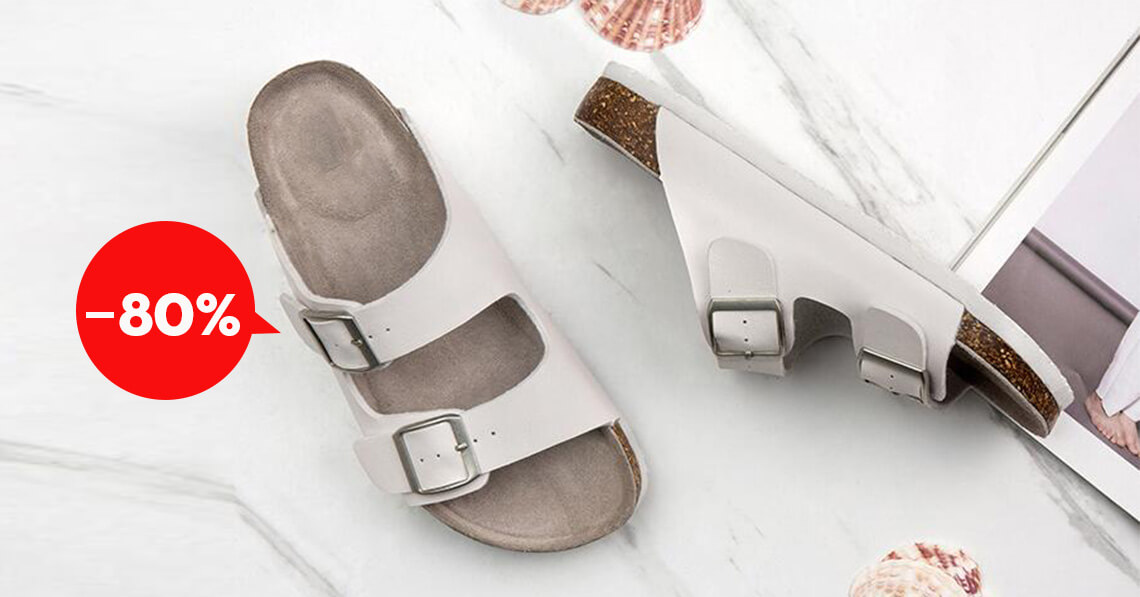
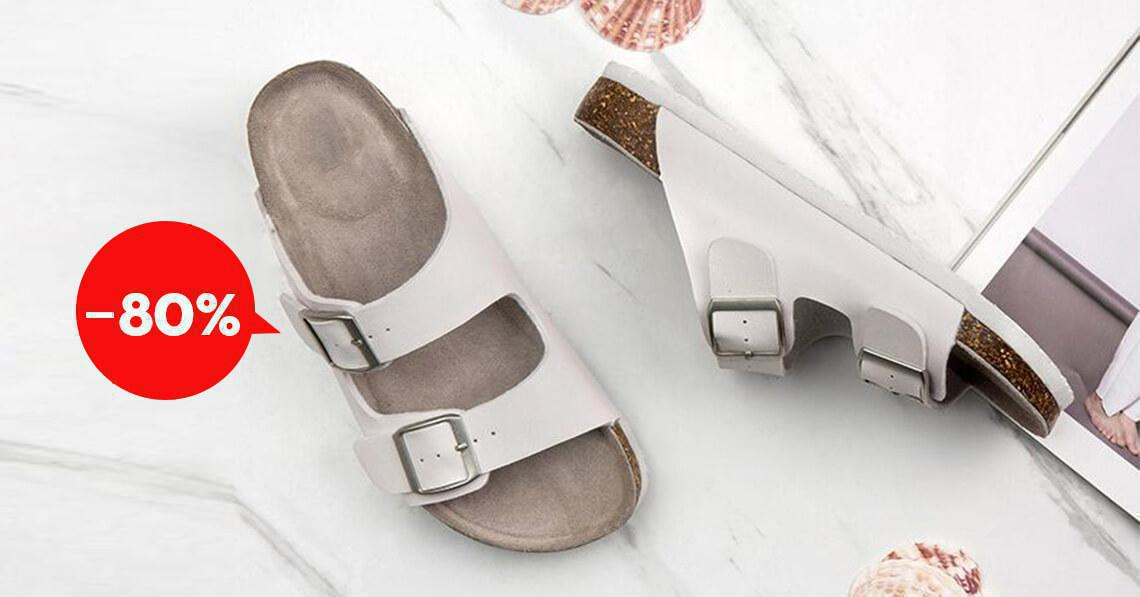
Change End.

Changed region(s): [[0.0614, 0.4824, 0.2456, 0.5729], [0.1228, 0.3618, 0.1842, 0.392], [0.0921, 0.6332, 0.1228, 0.6633]]

diff --git a/ChangeImg/app.js b/ChangeImg/app.js
@@ -2,8 +2,27 @@
 const gm = require('gm')
 const fs = require('fs')
 
-gm('./img/wallhaven-460536.png')
-  .resize(240, 240, '!')
-  .write('./img/test.png', function (err) {
-    if (!err) console.log('ok');
-  });
+const list = fs.readdirSync('img/')
+
+for( let v of list ){
+  let path = `./img/${v}`
+  v.indexOf('ZC37') !== -1 ? ChangSize(path, 1140, 597) : ''
+  v.indexOf('ZC38') !== -1 ? ChangSize(path, 1140, 580) : ''
+  v.indexOf('ZC36') !== -1 ? ChangSize(path, 1140, 446) : ''
+  v.indexOf('ZC31') !== -1 ? ChangSize(path, 1200, 605) : ''
+  v.indexOf('ZC18') !== -1 ? ChangSize(path, 1000, 556) : ''
+  v.indexOf('ZC39') !== -1 ? ChangSize(path, 1519, 481) : ''
+  v.indexOf('ZC29') !== -1 ? ChangSize(path, 982, 514) : ''
+  v.indexOf('ZC33') !== -1 ? ChangSize(path, 990, 642) : ''
+  v.indexOf('ZC32') !== -1 ? ChangSize(path, 1200, 446) : ''
+  v.indexOf('ZC35') !== -1 ? ChangSize(path, 1519, 570) : ''
+}
+
+function ChangSize(path, width, height) {
+  gm(path)
+    .resize(width, height, '!')
+    .write(path, function (err) {
+      if ( err ) { console.log(`${path.replace('./img/','')} No !`); }
+      if (!err) console.log(`${path.replace('./img/','')} -> OK !\n Width=${width}px Height=${height}px`)
+    });
+}
